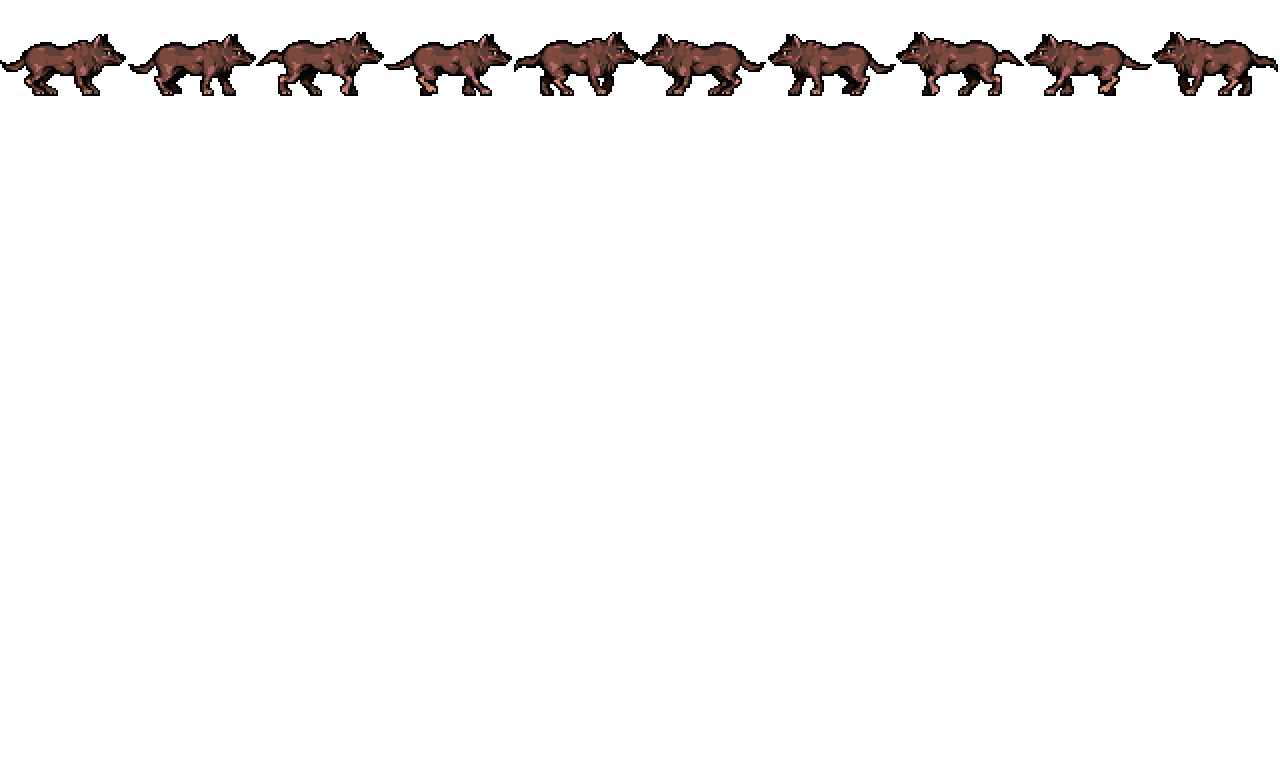
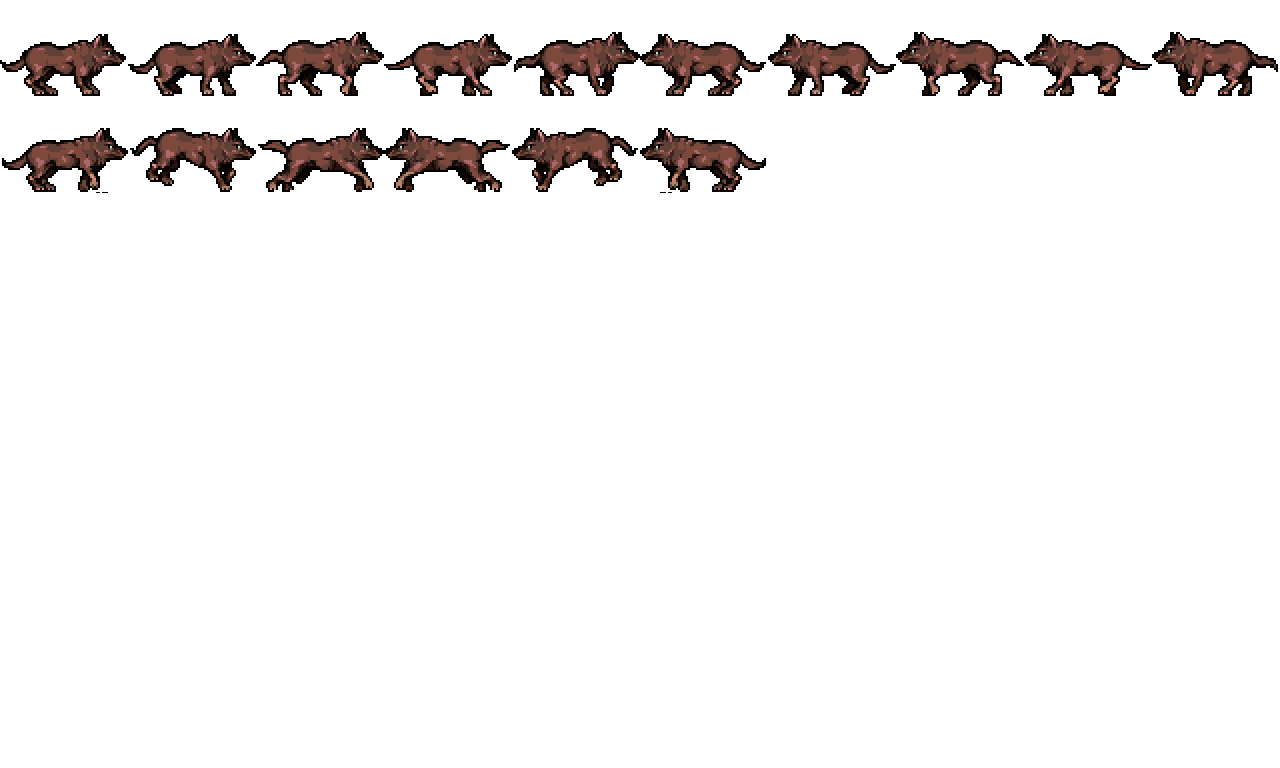
Add jumping animation

Changed region(s): [[0.0, 0.1562, 0.5938, 0.25]]

diff --git a/js/main.js b/js/main.js
@@ -1,3 +1,5 @@
+"use strict"
+
 window.onload = function() {
   var game = new Phaser.Game(800, 600, Phaser.AUTO, 'game', { preload: preload, create: create, update: update, render: render });
 
@@ -6,9 +8,6 @@ window.onload = function() {
     game.load.tilemap('level', 'assets/testLevel.json', null, Phaser.Tilemap.TILED_JSON);
     game.load.image('tiles', 'assets/tiles.png');
     game.load.spritesheet('dog', 'assets/dogsheet.png', 128, 96);
-    game.load.spritesheet('droid', 'assets/droid.png', 32, 32);
-    game.load.image('starSmall', 'assets/star.png');
-    game.load.image('starBig', 'assets/star2.png');
     game.load.image('background', 'assets/background2.png');
 
   }
@@ -18,6 +17,7 @@ window.onload = function() {
   var layer;
   var player;
   var facing = 'right';
+  var moving = false
   var jumpTimer = 0;
   var cursors;
   var jumpButton;
@@ -52,7 +52,7 @@ window.onload = function() {
 
     player.body.bounce.y = 0.2;
     player.body.collideWorldBounds = true;
-    player.body.setSize(96, 64, 25, 32);
+    player.body.setSize(80, 64, 25, 32);
 
     player.animations.add('right', [0, 1, 2, 3], 10, true);
     player.animations.add('left', [6, 7, 8, 9], 10, true);
@@ -71,39 +71,55 @@ window.onload = function() {
 
     player.body.velocity.x = 0;
 
+    // Walking
     if (cursors.left.isDown) {
+      if (!moving || facing === 'right') {
+        player.animations.play('left');
+      }
+      facing = 'left';
+      moving = true
       player.body.velocity.x = -150;
 
-      if (facing != 'left') {
-        player.animations.play('left');
-        facing = 'left';
-      }
     } else if (cursors.right.isDown) {
-      player.body.velocity.x = 150;
-
-      if (facing != 'right') {
+      if (!moving || facing === 'left') {
         player.animations.play('right');
-        facing = 'right';
       }
+      facing = 'right'
+      moving = true
+      player.body.velocity.x = 150;
     }
     else {
-      if (facing != 'idle') {
+      if (moving) {
         player.animations.stop();
-
-        if (facing == 'left') {
-          player.frame = 5;
-        }
-        else {
-          player.frame = 0;
-        }
-
-        facing = 'idle';
+        standStill(player)
+        moving = false;
       }
     }
 
+    // Jumping
     if (jumpButton.isDown && player.body.onFloor() && game.time.now > jumpTimer) {
       player.body.velocity.y = -400;
       jumpTimer = game.time.now + 750;
+    }
+    if (!player.body.onFloor()) {
+      if (player.body.velocity.y < -300) {
+        player.frame = {
+          right: 10,
+          left: 13
+        }[facing]
+      } else if (player.body.velocity.y >= -300 && player.body.velocity.y < 25) {
+        player.frame = {
+          right: 12,
+          left: 15
+        }[facing]
+      } else {
+        player.frame = {
+          right: 11,
+          left: 14
+        }[facing]
+      }
+    } else if (!moving) {
+      standStill(player)
     }
   }
 
@@ -111,7 +127,16 @@ window.onload = function() {
 
     //game.debug.text(game.time.physicsElapsed, 32, 32);
     //game.debug.body(player);
-    //game.debug.bodyInfo(player, 16, 24);
+    game.debug.bodyInfo(player, 16, 24);
 
+  }
+
+  function standStill(player) {
+    if (facing == 'left') {
+      player.frame = 5;
+    }
+    else {
+      player.frame = 0;
+    }
   }
 }
